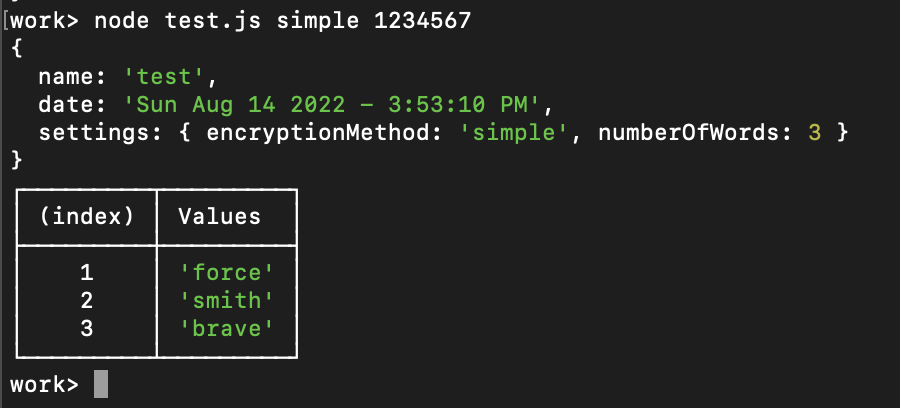
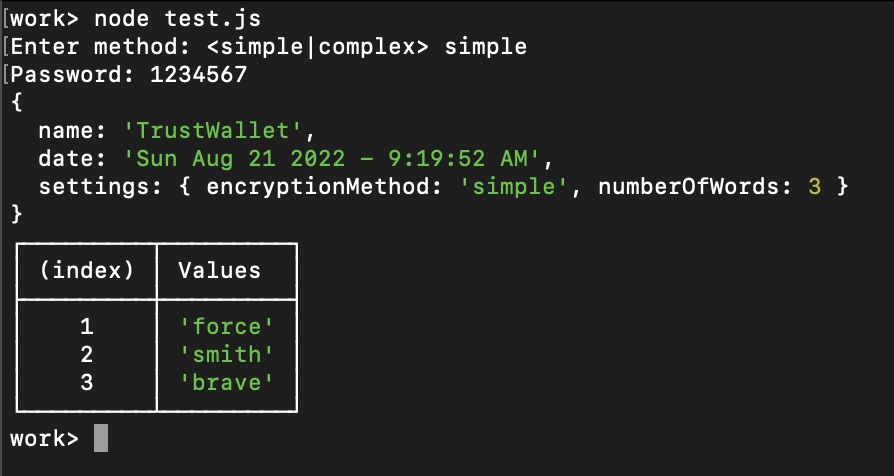
Update docs on new changes

diff --git a/README.md b/README.md
@@ -124,13 +124,7 @@ Once downloaded, you can run on any NodeJS machine with the right arguments
 
 ```sh
 # Syntax
-node file.js <method> <password>
-
-# Simple
-node file.js simple YourPassword
-
-# Complex
-node file.js complex YourPassword
+node file.js
 ```
 
 If successful the result will look like this.
